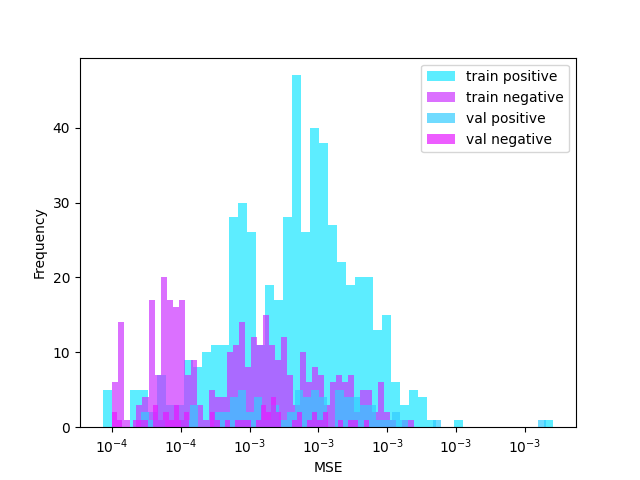
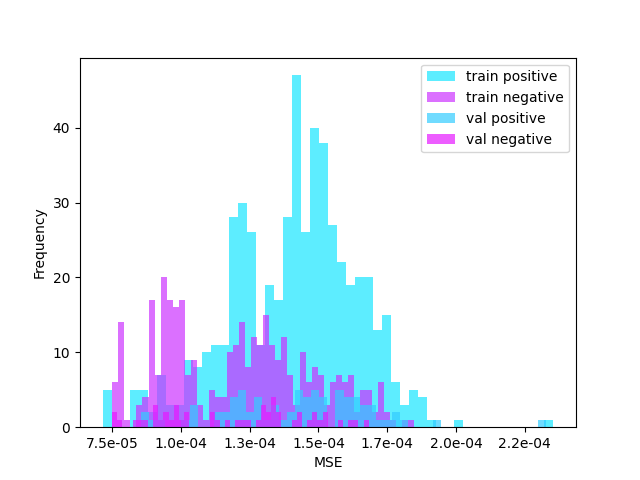
Changed complexity histogram to scientific notation

diff --git a/src/extract_complexity.py b/src/extract_complexity.py
@@ -38,8 +38,6 @@ DATA_SPLITS_AND_LABELS = [(split, label) for split in ['train', 'val', 'test']
 
 fig, ax = plt.subplots()
 cmap = plt.get_cmap('cool')
-
-# Define colour dictionary
 colours = {
     ('train', 'positive'): cmap(0.1),
     ('val', 'positive'): cmap(0.2),
@@ -69,8 +67,7 @@ for split, label in DATA_SPLITS_AND_LABELS:
 
 ax.set_xlabel('MSE')
 # Format the x-axis with powers of 10
-ax.xaxis.set_major_formatter(
-    ticker.FuncFormatter(lambda x, _: f"$10^{{{int(np.log10(x))}}}$"))
+ax.xaxis.set_major_formatter(ticker.FuncFormatter(lambda x, _: f"{x:.1e}"))
 ax.set_ylabel('Frequency')
 ax.legend()
 fig_dir = os.path.join('visualisation', DATASET)
